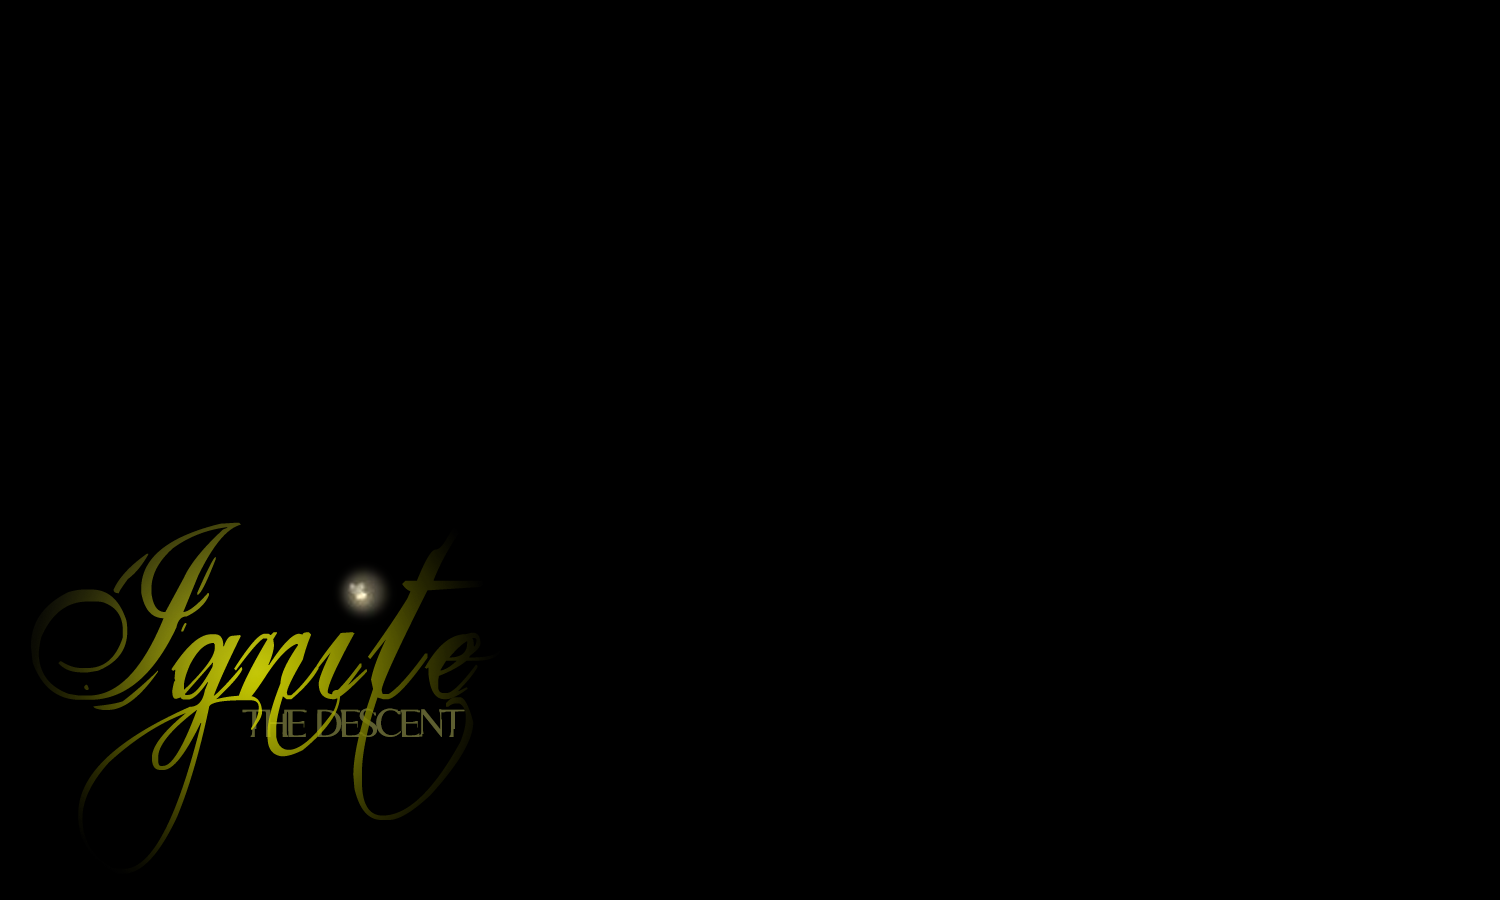
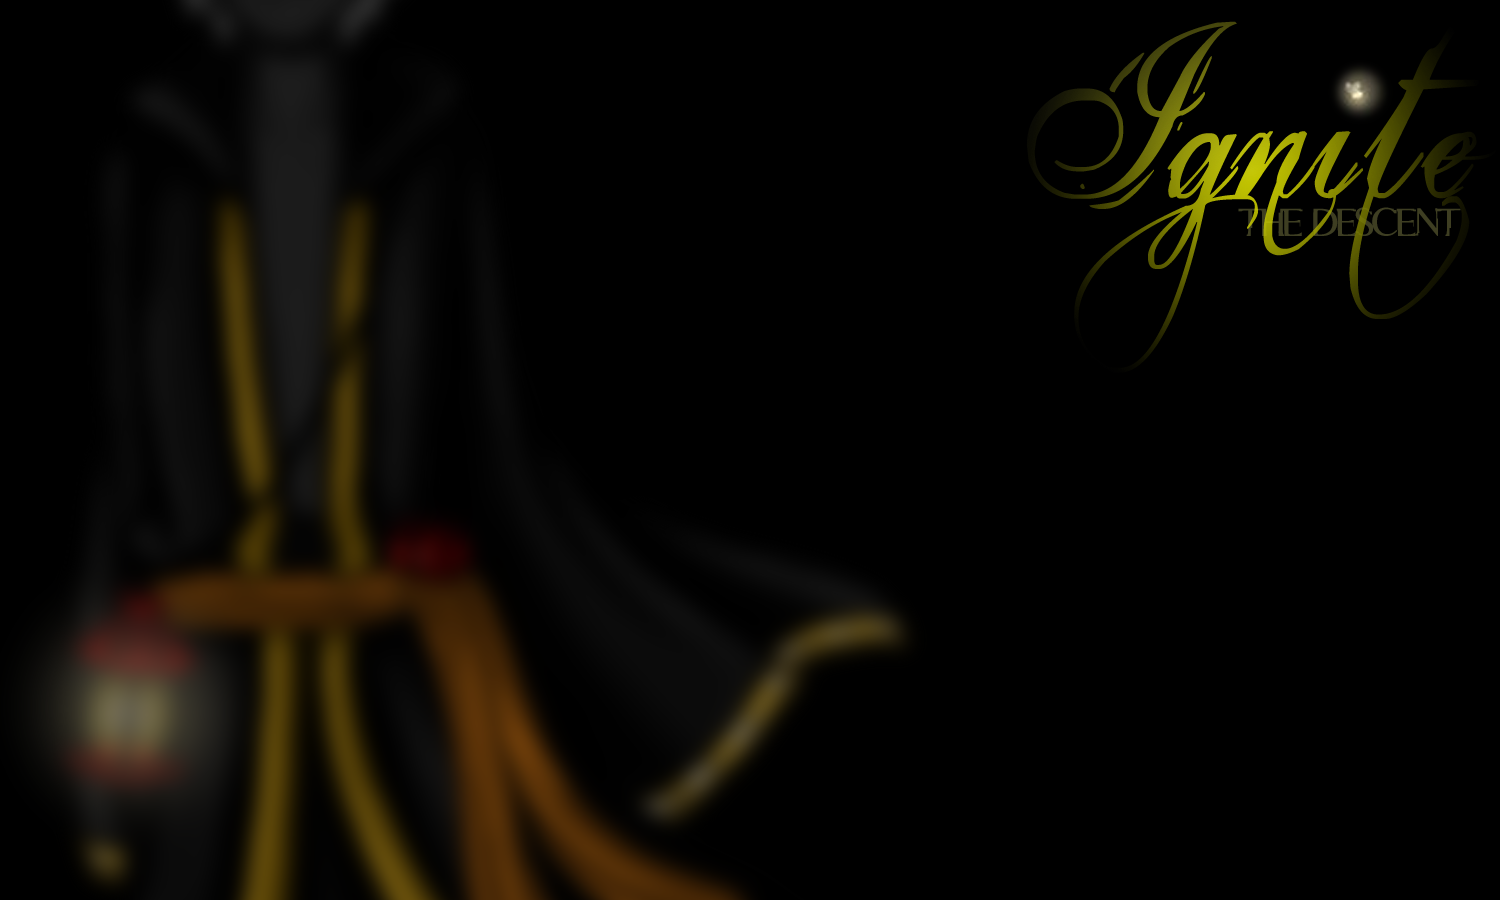
updated main screen image and moved buttons to see how it looks
git-svn-id: http://subversion.assembla.com/svn/projectflare/trunk@268 d7f86d05-3d01-4247-9a02-3338f5b2d2c1

diff --git a/src/buttons.js b/src/buttons.js
@@ -30,7 +30,7 @@ function createButtons() {
 	// main menu buttons
 	var mainNewGame = document.createElement('div');
 	mainNewGame.id = 'newGame';
-	mainNewGame.setAttribute('style', "width: " + MEASURE_UNIT * 3 + "px; height: " + MEASURE_UNIT * 1.5 + "px; left: " + ((GAME_WIDTH * .18) + (MEASURE_UNIT * 8.6)) + "px; top: " + GAME_HEIGHT *  .62 + "px; position: absolute; z-index: 5; background-image:url(assets/ui/mainMenu/main_story_button.png); background-size: 100% 400%; background-position: 0% 0%");
+	mainNewGame.setAttribute('style', "width: " + MEASURE_UNIT * 3 + "px; height: " + MEASURE_UNIT * 1.5 + "px; left: " + ((GAME_WIDTH * .38) + (MEASURE_UNIT * 8.6)) + "px; top: " + GAME_HEIGHT *  .62 + "px; position: absolute; z-index: 5; background-image:url(assets/ui/mainMenu/main_story_button.png); background-size: 100% 400%; background-position: 0% 0%");
 	topCanvas.appendChild(mainNewGame);
 	mainNewGame.style.display = 'none';
 	mainNewGame.setAttribute('onmouseover', "this.style.backgroundPosition='0% -100%'");
@@ -41,7 +41,7 @@ function createButtons() {
 	
 	var mainCredits = document.createElement('div');
 	mainCredits.id = 'mainCredits';
-	mainCredits.setAttribute('style', "width: " + MEASURE_UNIT * 3 + "px; height: " + MEASURE_UNIT * 1.5 + "px; left: " + ((GAME_WIDTH * .18) + (MEASURE_UNIT * 8.6)) + "px; top: " + GAME_HEIGHT *  .75 + "px; position: absolute; z-index: 5; background-image:url(assets/ui/mainMenu/main_credits_button.png); background-size: 100% 400%; background-position: 0% 0%");
+	mainCredits.setAttribute('style', "width: " + MEASURE_UNIT * 3 + "px; height: " + MEASURE_UNIT * 1.5 + "px; left: " + ((GAME_WIDTH * .38) + (MEASURE_UNIT * 8.6)) + "px; top: " + GAME_HEIGHT *  .75 + "px; position: absolute; z-index: 5; background-image:url(assets/ui/mainMenu/main_credits_button.png); background-size: 100% 400%; background-position: 0% 0%");
 	topCanvas.appendChild(mainCredits);
 	mainCredits.style.display = 'none';
 	mainCredits.setAttribute('onmouseover', "this.style.backgroundPosition='0% -100%'");
